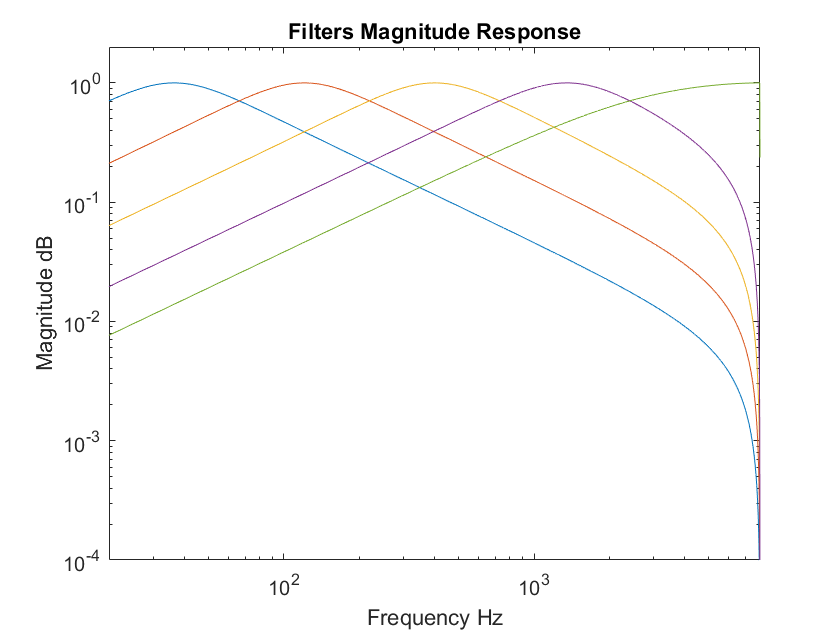
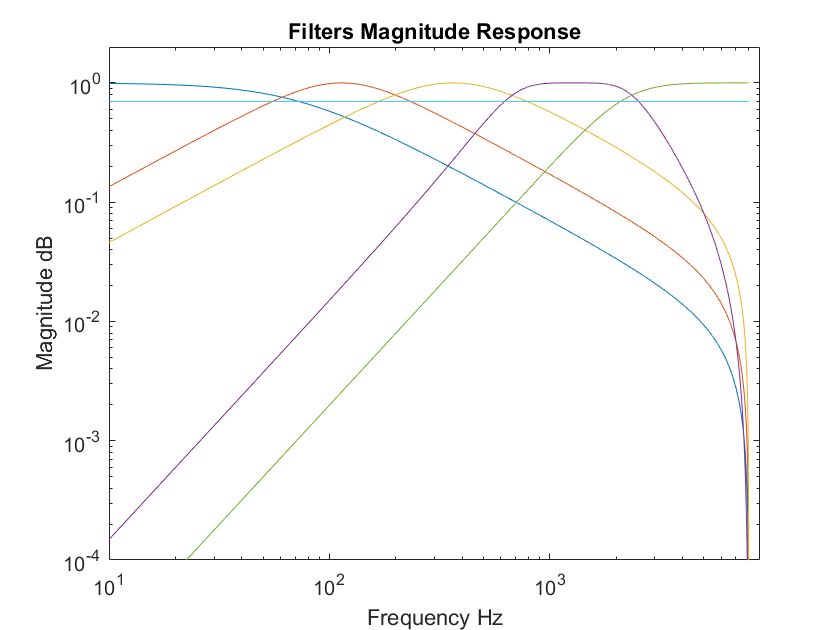
Updated equaliser project

diff --git a/src/pages/project-s3.html b/src/pages/project-s3.html
@@ -62,21 +62,33 @@
 
 
     <section id="project-page">
-        <h2>5 Band Audio Equaliser</h2>
+        <h2>Audio Equaliser in C++</h2>
 
-        <p>I built a 5-band audio equaliser project using MATLAB, allowing real-time digital signal processing of audio frequencies. The equaliser is designed to provide users with the ability to manipulate the gain of five distinct frequency bands, offering a customisable audio experience.</p>
+        <div class="pdf-container">
+            <a href="https://github.com/jay-junjiewu/audio-equaliser.git" target="_blank" rel="noopener noreferrer" class="pdf-link">
+                GitHub Link
+            </a>
+        </div>
+
+        <p>
+            This personal project is a Digital Audio Equaliser written purely using C++ STL (no external libraries) for processing audio signals. The equaliser reads in a .wav audio file and allows users to apply various gains to 5 frequency bands (sub-bass, bass, midrange, upper midrange, treble). It can also process stereo audio and save the result into a .wav file.
+        </p>
+
+        <p>
+            Note: I could have used any of the many good libraries out there, which are possibly even more efficient in terms of implementation than my code, or I could have written it all in Python. But I chose to write it all from scratch in C++ to have full control over the implementation details and to gain a better understanding of signal processing and C++ STL.
+        </p>
 
         <h3>Filter Design</h3>
 
-        <p>The equaliser uses digital bandpass filters that are logarithmically spaced to align with the sensitivity of human hearing, ensuring a natural and intuitive audio adjustment experience. These filters were designed and implemented using MATLAB's DSP capabilities, allowing precise tuning of filter coefficients to effectively isolate and process specific frequency bands for optimal sound quality and performance.</p>
+        <p>The equaliser uses digital IIR filters that are logarithmically spaced to align with the sensitivity of human hearing, ensuring a natural and intuitive audio adjustment experience. These filters were first designed and tested using MATLAB to allow for precise tuning of filter coefficients before implementing them in C++.</p>
 
         <div class="hover-container">
             <img src="../assets/project-s3/filters.png" class="image-ps2-1" />
         </div>
 
-        <h3>Operating Principle</h3>
+        <h3>MATLAB Real-Time Equaliser</h3>
 
-        <p>The gain adjustment is controlled via sliders that dynamically update the filter parameters, directly influencing the time-domain signal. These adjustments span a wide range of gain levels, from subtle to significant, which can be observed in the time graph. To ensure smooth processing, a sliding window buffer is used to handle real-time audio data, continuously updating the signal as the sliders are adjusted. This buffer allows for efficient management of the audio stream, ensuring that the filter coefficients are recalculated in real-time. Updates to the frequency response and spectrogram occur in real-time, with minimal latency, providing seamless transitions and a smooth audio experience as the frequency spectrum is adjusted.</p>
+        <p>As a prototype, I first designed a real-time equaliser in MATLAB before implementing it from scratch in C++. In MATLAB, the gain adjustment dynamically updates the filter parameters, directly influencing the time-domain signal. These adjustments span a wide range of gain levels, from subtle to significant, which can be observed in the time graph. To ensure smooth processing, a sliding window buffer is used to handle real-time audio data, continuously updating the signal as the sliders are adjusted. This buffer allows for efficient management of the audio stream, ensuring that the filter coefficients are recalculated in real-time. Updates to the frequency response and spectrogram occur in real-time, with minimal latency, providing seamless transitions and a smooth audio experience as the frequency spectrum is adjusted.</p>
 
         <div class="image-carousel">
             <div class="carousel-slide">
@@ -90,11 +102,23 @@
         </div>
         <div class="carousel-dots">
             <!-- Dots will be dynamically added here -->
-        </div>
+        </div>   
+        
+        <h3>C++ Equaliser</h3>
 
         <p>
-            If you would like access to the MATLAB source code or the calculations behind the filter design, please feel free to contact me.
-        </p>        
+            The C++ equaliser begins by reading a .wav file and parsing its header to extract the metadata, including file size, sampling frequency, bit depth, and channel information. The implementation supports .wav files with any sampling frequency and can handle both mono and stereo audio formats. This process involves manually decoding the WAV file format's RIFF header structure. The raw audio data is then read into memory for processing.
+        </p>
+
+        <p>
+            Users can specify gain adjustments for any of the five predefined frequency bands (sub-bass, bass, midrange, upper midrange, treble). The system applies zero-phase filtering to each band by performing forward and reverse digital filtering, ensuring no phase distortion. This filtering and gain adjustment are performed independently for each channel in stereo files. After processing, the modified audio data is recombined and can be saved back to a .wav file, preserving the original format and metadata.
+        </p>
+
+        <p>
+            The C++ code is in my <a href="https://github.com/jay-junjiewu/audio-equaliser.git" target="_blank" class="text-link">GitHub</a>. However, if you would like access to the MATLAB real-time equaliser source code, please feel free to contact me.
+        </p>   
+
+
         
     </section>
 

diff --git a/index.html b/index.html
@@ -132,6 +132,24 @@
 
         <!-- Software Projects -->
         <div class="projects-container" id="software-projects">
+            <a href="src/pages/project-s3.html" class="project-link">
+                <div class="project-card">
+                    <div class="project-thumbnail">
+                        <img src="src/assets/project-s3/spectogram.png" alt="Project S3 Thumbnail">
+                    </div>
+                    <div class="project-info">
+                        <h4>Audio Equaliser in C++</h4>
+                        <div class="project-info-date">(November 2024 - Present)</div>
+                        <p>
+                            I built a 5-band audio equaliser using C++ STL (no external libraries). The equaliser reads in an audio file and allows users to apply various gains to 5 frequency bands (sub-bass, bass, midrange, upper midrange, treble). It can also process stereo audio and save the result into an audio file.
+                        </p>
+                        <div class="project-skills">
+                            Skills: C++, MATLAB, Digital Signal Processing, Real-Time Processing
+                        </div>
+                    </div>
+                </div>
+            </a>
+
             <a href="https://github.com/jay-junjiewu/Portfolio-Website" class="project-link" target="_blank">
                 <div class="project-card">
                     <div class="project-info">
@@ -164,23 +182,6 @@
                 </div>
             </a>
 
-            <a href="src/pages/project-s3.html" class="project-link">
-                <div class="project-card">
-                    <div class="project-thumbnail">
-                        <img src="src/assets/project-s3/spectogram.png" alt="Project S3 Thumbnail">
-                    </div>
-                    <div class="project-info">
-                        <h4>5 Band Audio Equaliser</h4>
-                        <div class="project-info-date">(September 2023 - December 2023)</div>
-                        <p>
-                            I built a 5-band audio equaliser project using MATLAB, allowing real-time digital signal processing of audio frequencies. The equaliser is designed to provide users with the ability to manipulate the gain of five distinct frequency bands, offering a customisable audio experience.
-                        </p>
-                        <div class="project-skills">
-                            Skills: MATLAB, Digital Signal Processing, Real-Time Processing
-                        </div>
-                    </div>
-                </div>
-            </a>
         </div>
     </section> 
 
@@ -200,7 +201,7 @@
     </section>
 
     <section id="updated">
-        <h3>Last Updated: December 12, 2024</h3>
+        <h3>Last Updated: December 15, 2024</h3>
     </section>
 
     <script src="https://cdn.jsdelivr.net/npm/aos@2.3.4/dist/aos.js"></script>
